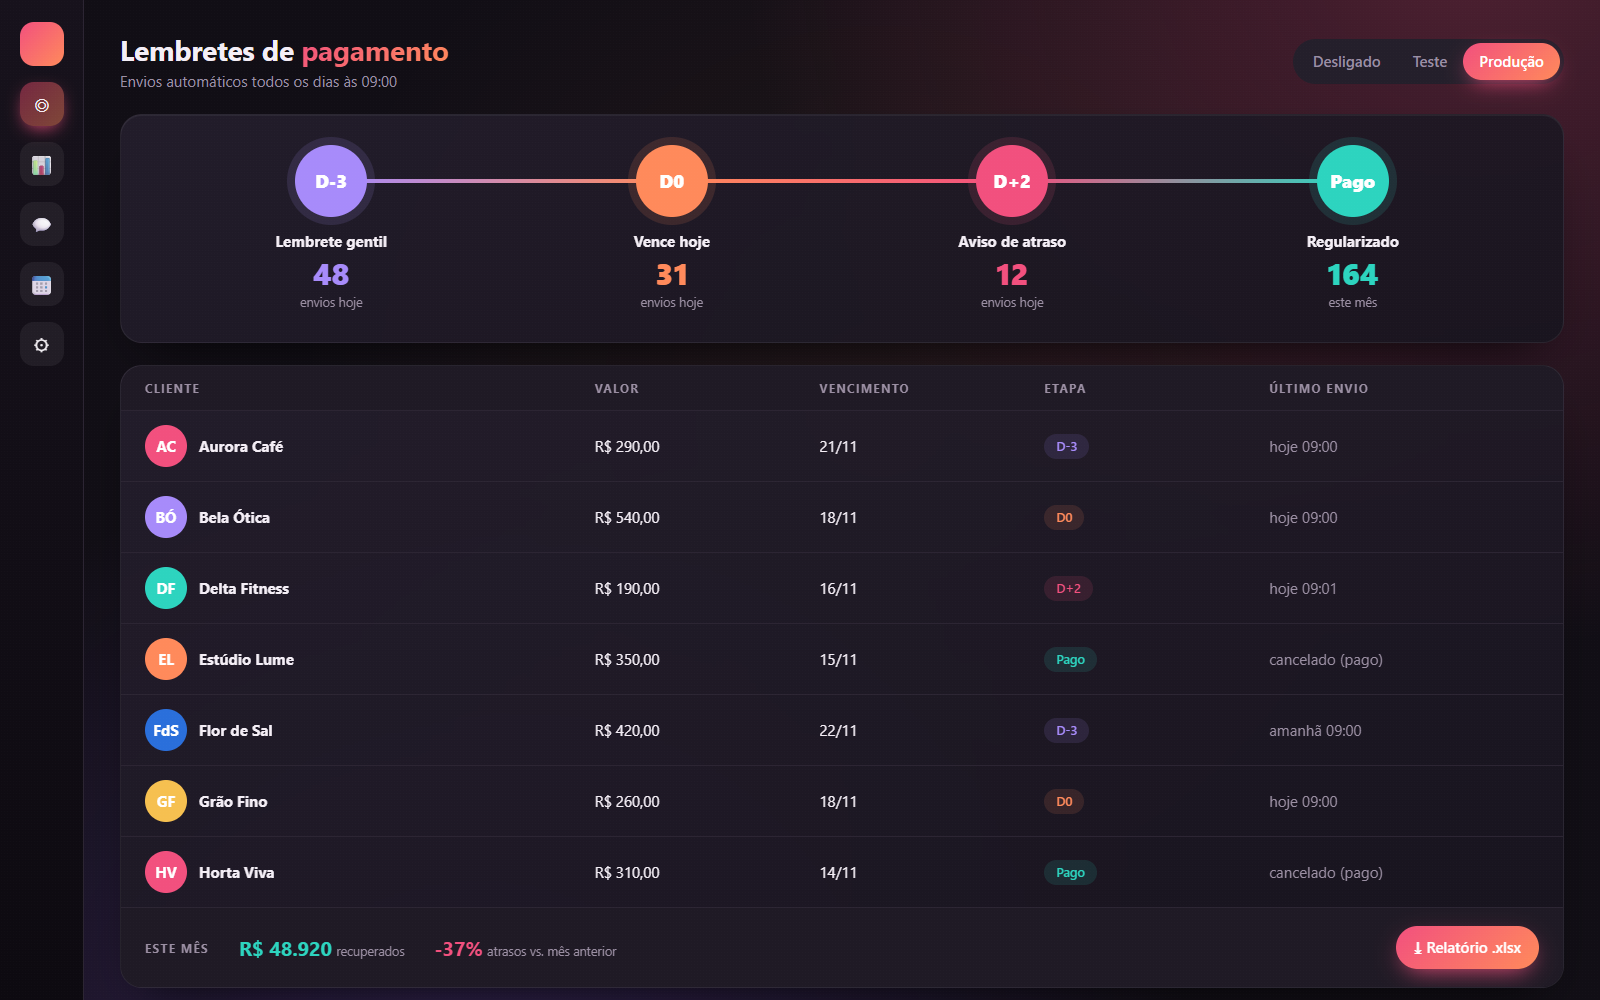
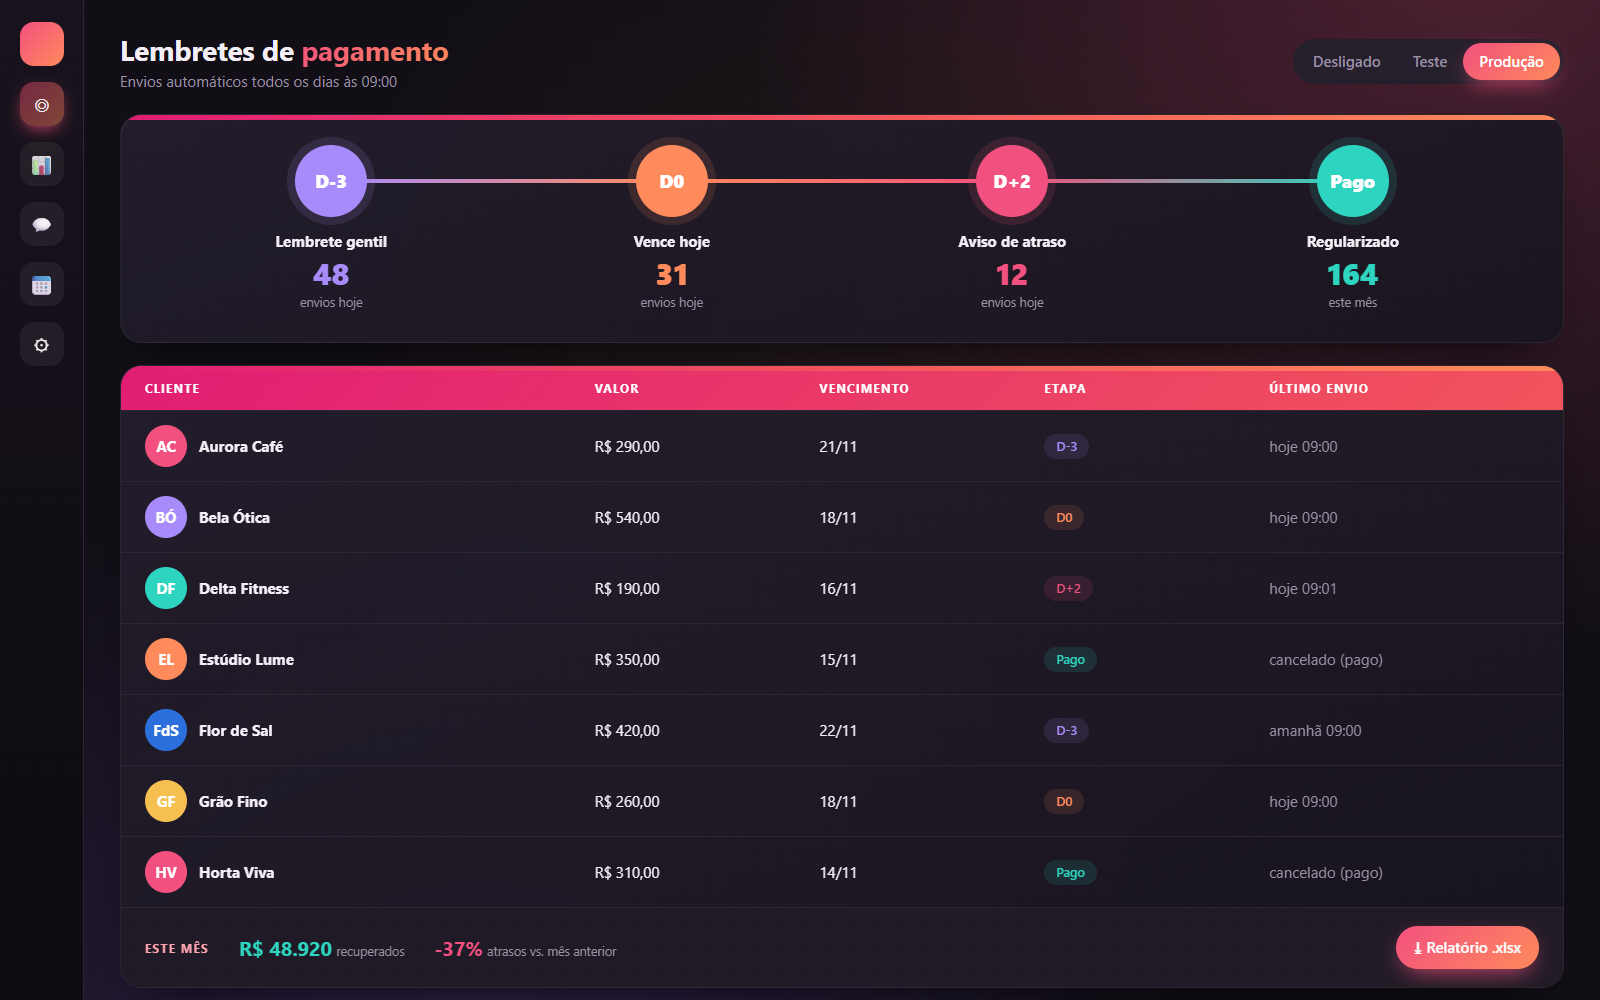
Início mais leve e rápido; telas dos projetos com degradê rosé

Changed region(s): [[0.0625, 0.341, 1.0, 0.434], [0.0938, 0.093, 0.9688, 0.124], [0.0938, 0.93, 0.125, 0.961]]

diff --git a/mocks/wireframes.html b/mocks/wireframes.html
@@ -29,7 +29,10 @@
   .btn.r { background: linear-gradient(135deg, var(--rose), var(--coral)); color: #fff; box-shadow: 0 8px 24px -8px var(--rose); }
   .btn.o { background: transparent; color: var(--ink); border: 1.5px solid var(--line); }
   .card { background: linear-gradient(160deg, rgba(36,30,44,.92), rgba(24,20,30,.92)); backdrop-filter: blur(8px); border: 1px solid rgba(255,255,255,.06); border-radius: 22px; padding: 22px;
-    box-shadow: inset 0 1px 0 rgba(255,255,255,.05), 0 24px 50px -28px rgba(0,0,0,.9); }
+    box-shadow: inset 0 1px 0 rgba(255,255,255,.05), 0 24px 50px -28px rgba(0,0,0,.9); position: relative; overflow: hidden; }
+  .card::before { content: ""; position: absolute; left: 0; right: 0; top: 0; height: 5px; background: linear-gradient(90deg, #e11d74, #f2545b, #ff8a5b); }
+  .card .k { color: #fda4af; }
+  .k[style*="color:#fff"] { color: #fff !important; }
   .hd h1 em { font-style: normal; background: linear-gradient(135deg, var(--rose), var(--coral)); -webkit-background-clip: text; color: transparent; }
   .dark { background: linear-gradient(135deg, #2d1426, #3d1a35 55%, #2a1838); color: #fff; border: 1px solid rgba(242,80,126,.45);
     box-shadow: 0 0 40px -10px rgba(242,80,126,.45), inset 0 1px 0 rgba(255,255,255,.08); }
@@ -55,7 +58,7 @@ jornada: () => `
 <div class="hd"><div><h1>Jornada dos <em>clientes</em></h1><p>Do primeiro contato ao uso pleno do produto</p></div><span class="grow"></span>
   <span class="chip" style="background:var(--peach);color:var(--rose)">● 2 precisam de atenção</span><span class="btn r">+ Novo cliente</span></div>
 <div class="card" style="padding:0;overflow:hidden">
-  <div style="display:grid;grid-template-columns:280px repeat(4,1fr) 150px;padding:16px 22px;background:#1f1a25;border-bottom:1px solid var(--line)" class="k">
+  <div style="display:grid;grid-template-columns:280px repeat(4,1fr) 150px;padding:16px 22px;background:linear-gradient(135deg,#e11d74,#f2545b);color:#fff" class="k">
     <span>Cliente</span><span>Boas-vindas</span><span>Configuração</span><span>Treinamento</span><span>Uso pleno</span><span>Próximo passo</span></div>
   ${[["Aurora Café", 4, "#2dd4bf", "Concluído"], ["Bela Ótica", 2, "#f2507e", "Sem resposta há 6 dias"], ["Casa Verde", 3, "#a78bfa", "Treinamento qui 14h"],
      ["Delta Fitness", 1, "#f6c050", "Agendar configuração"], ["Estúdio Lume", 3, "#a78bfa", "Revisar automações"], ["Flor de Sal", 2, "#f2507e", "Parado há 9 dias"]]
@@ -193,7 +196,7 @@ cobranca: () => `
       <span style="position:relative;width:72px;height:72px;border-radius:50%;background:${c};color:#fff;display:grid;place-items:center;font-weight:800;font-size:18px;box-shadow:0 0 0 8px ${c}22">${d}</span>
       <b style="margin-top:14px">${l}</b><span style="font-size:30px;font-weight:800;color:${c}">${n}</span><small class="muted">${i === 3 ? "este mês" : "envios hoje"}</small></div>`).join("")}</div></div>
 <div class="card" style="padding:0;overflow:hidden;flex:1">
-  <div style="display:grid;grid-template-columns:2fr 1fr 1fr 1fr 1.2fr;padding:14px 24px;background:#1f1a25" class="k"><span>Cliente</span><span>Valor</span><span>Vencimento</span><span>Etapa</span><span>Último envio</span></div>
+  <div style="display:grid;grid-template-columns:2fr 1fr 1fr 1fr 1.2fr;padding:14px 24px;background:linear-gradient(135deg,#e11d74,#f2545b);color:#fff" class="k"><span>Cliente</span><span>Valor</span><span>Vencimento</span><span>Etapa</span><span>Último envio</span></div>
   ${[["Aurora Café", "R$ 290,00", "21/11", "D-3", "#a78bfa", "hoje 09:00"], ["Bela Ótica", "R$ 540,00", "18/11", "D0", "#ff8a5b", "hoje 09:00"], ["Delta Fitness", "R$ 190,00", "16/11", "D+2", "#f2507e", "hoje 09:01"],
      ["Estúdio Lume", "R$ 350,00", "15/11", "Pago", "#2dd4bf", "cancelado (pago)"], ["Flor de Sal", "R$ 420,00", "22/11", "D-3", "#a78bfa", "amanhã 09:00"],
      ["Grão Fino", "R$ 260,00", "18/11", "D0", "#ff8a5b", "hoje 09:00"], ["Horta Viva", "R$ 310,00", "14/11", "Pago", "#2dd4bf", "cancelado (pago)"]]

diff --git a/src/components/Universe3D/Universe3D.tsx b/src/components/Universe3D/Universe3D.tsx
@@ -47,7 +47,7 @@ export function Universe3D({ palette, classic, readoutRef }: Universe3DProps) {
     const reduce = prefersReducedMotion();
     const mobile = window.innerWidth < 820;
     const renderer = new THREE.WebGLRenderer({ canvas, antialias: !mobile, alpha: false });
-    renderer.setPixelRatio(Math.min(window.devicePixelRatio, mobile ? 1.5 : 2));
+    renderer.setPixelRatio(Math.min(window.devicePixelRatio, mobile ? 1 : 1.5));
     const scene = new THREE.Scene();
     const cam = new THREE.PerspectiveCamera(62, 1, 0.1, 400);
 
@@ -72,20 +72,30 @@ export function Universe3D({ palette, classic, readoutRef }: Universe3DProps) {
     scene.add(floor);
 
     // prédios ao longo da rodovia
-    const bA = lineMat("data");
-    const bB = lineMat("signal");
+    // todas as arestas de uma cor numa só geometria: 2 draw calls em vez de um por prédio
+    const edgesA: number[] = [];
+    const edgesB: number[] = [];
+    const BOX_EDGES = [[0, 1], [1, 2], [2, 3], [3, 0], [4, 5], [5, 6], [6, 7], [7, 4], [0, 4], [1, 5], [2, 6], [3, 7]];
     for (let i = 0; i < (mobile ? 85 : 180); i++) {
       const side = Math.random() < 0.5 ? -1 : 1;
       const w = 1.5 + Math.random() * 3;
       const h = 3 + Math.pow(Math.random(), 2) * 22;
       const d = 1.5 + Math.random() * 3;
-      const b = new THREE.LineSegments(new THREE.EdgesGeometry(new THREE.BoxGeometry(w, h, d)), i % 4 === 0 ? bB : bA);
-      b.position.set(side * (14 + Math.random() * 24), -3 + h / 2, 20 - Math.random() * 430);
-      scene.add(b);
+      const cx = side * (14 + Math.random() * 24);
+      const cz = 20 - Math.random() * 430;
+      const [x0, x1, y0, y1, z0, z1] = [cx - w / 2, cx + w / 2, -3, -3 + h, cz - d / 2, cz + d / 2];
+      const c = [[x0, y0, z0], [x1, y0, z0], [x1, y0, z1], [x0, y0, z1], [x0, y1, z0], [x1, y1, z0], [x1, y1, z1], [x0, y1, z1]];
+      const out = i % 4 === 0 ? edgesB : edgesA;
+      for (const [a, b] of BOX_EDGES) out.push(...c[a], ...c[b]);
+    }
+    for (const [pts, role] of [[edgesA, "data"], [edgesB, "signal"]] as const) {
+      const g = new THREE.BufferGeometry();
+      g.setAttribute("position", new THREE.Float32BufferAttribute(pts, 3));
+      scene.add(new THREE.LineSegments(g, lineMat(role)));
     }
 
     // poeira / dados flutuando
-    const DN = mobile ? 900 : 2200;
+    const DN = mobile ? 600 : 1600;
     const dp = new Float32Array(DN * 3);
     for (let i = 0; i < DN; i++) {
       dp[i * 3] = (Math.random() - 0.5) * 80;
@@ -337,7 +347,7 @@ export function Universe3D({ palette, classic, readoutRef }: Universe3DProps) {
       raf = requestAnimationFrame(frame);
       const t = now / 1000;
       const sp = reduce ? 0 : 1;
-      prog += (target - prog) * (reduce ? 1 : 0.07);
+      prog += (target - prog) * (reduce ? 1 : 0.14);
       v += (vel - v) * 0.1;
       vel *= 0.9;
       const u = Math.min(0.9999, (prog * STZ.length) / STZ.length);

diff --git a/src/components/Station/Station.module.css b/src/components/Station/Station.module.css
@@ -21,7 +21,7 @@
   border: 1px solid var(--line);
   border-radius: 6px;
   padding: 30px;
-  backdrop-filter: blur(14px);
+  backdrop-filter: blur(6px);
   position: relative;
   min-width: 0;
 }
@@ -83,5 +83,7 @@
   }
   .panel {
     padding: 22px;
+    backdrop-filter: none;
+    background: color-mix(in srgb, var(--panel-solid) 94%, transparent);
   }
 }

diff --git a/src/components/Universe3D/Universe3D.module.css b/src/components/Universe3D/Universe3D.module.css
@@ -12,7 +12,6 @@
   pointer-events: none;
   z-index: 1;
   background: repeating-linear-gradient(0deg, rgba(255, 255, 255, .025) 0 1px, transparent 1px 3px);
-  mix-blend-mode: overlay;
 }
 .vignette {
   position: fixed;

diff --git a/src/components/Nav/Nav.module.css b/src/components/Nav/Nav.module.css
@@ -52,7 +52,6 @@
   display: inline-flex;
   gap: 6px;
   align-items: center;
-  backdrop-filter: blur(6px);
 }
 .navbtn kbd {
   font-family: inherit;
